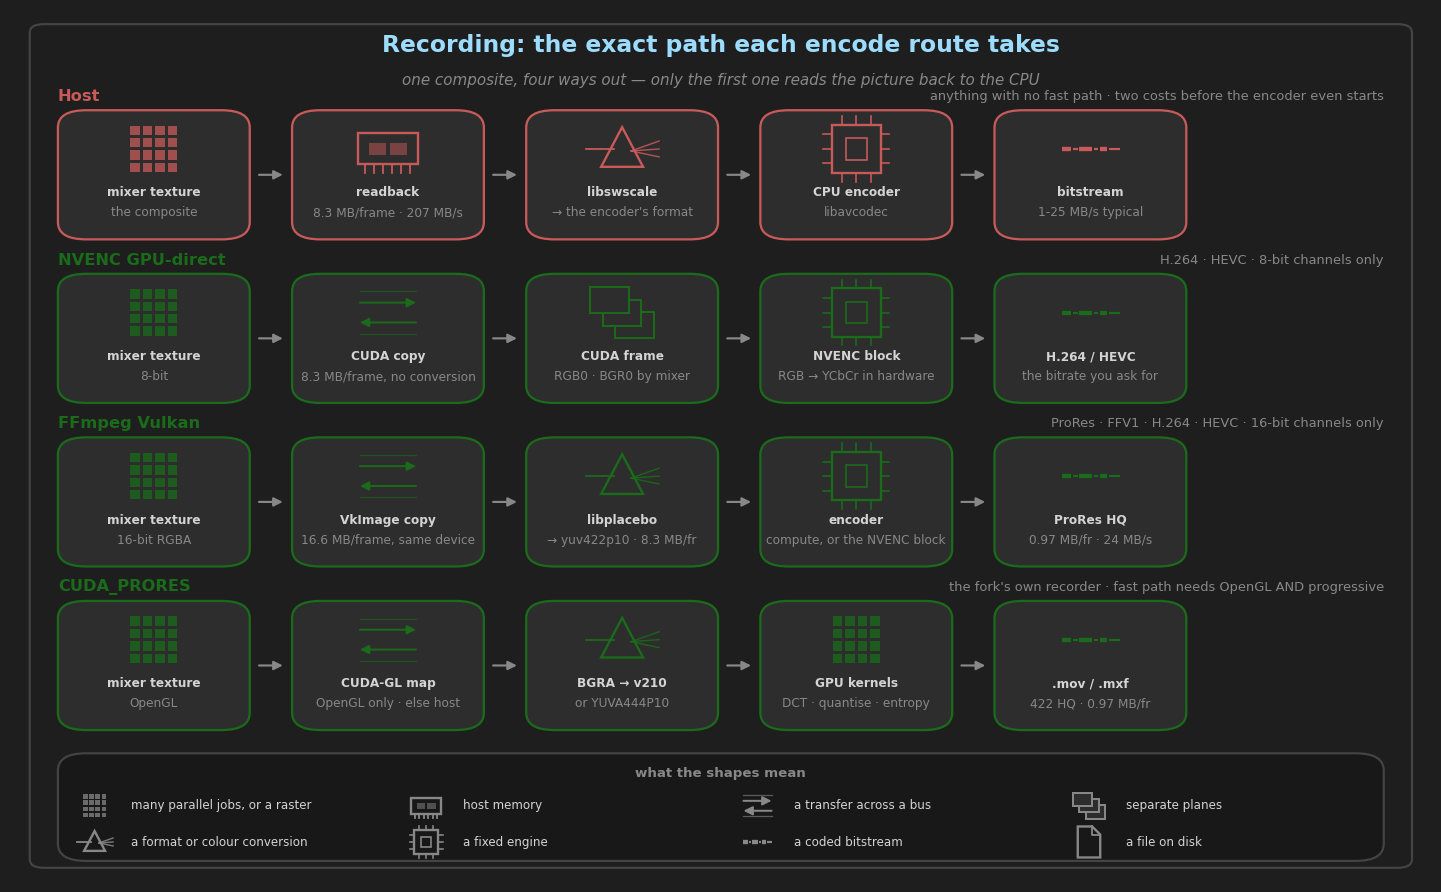
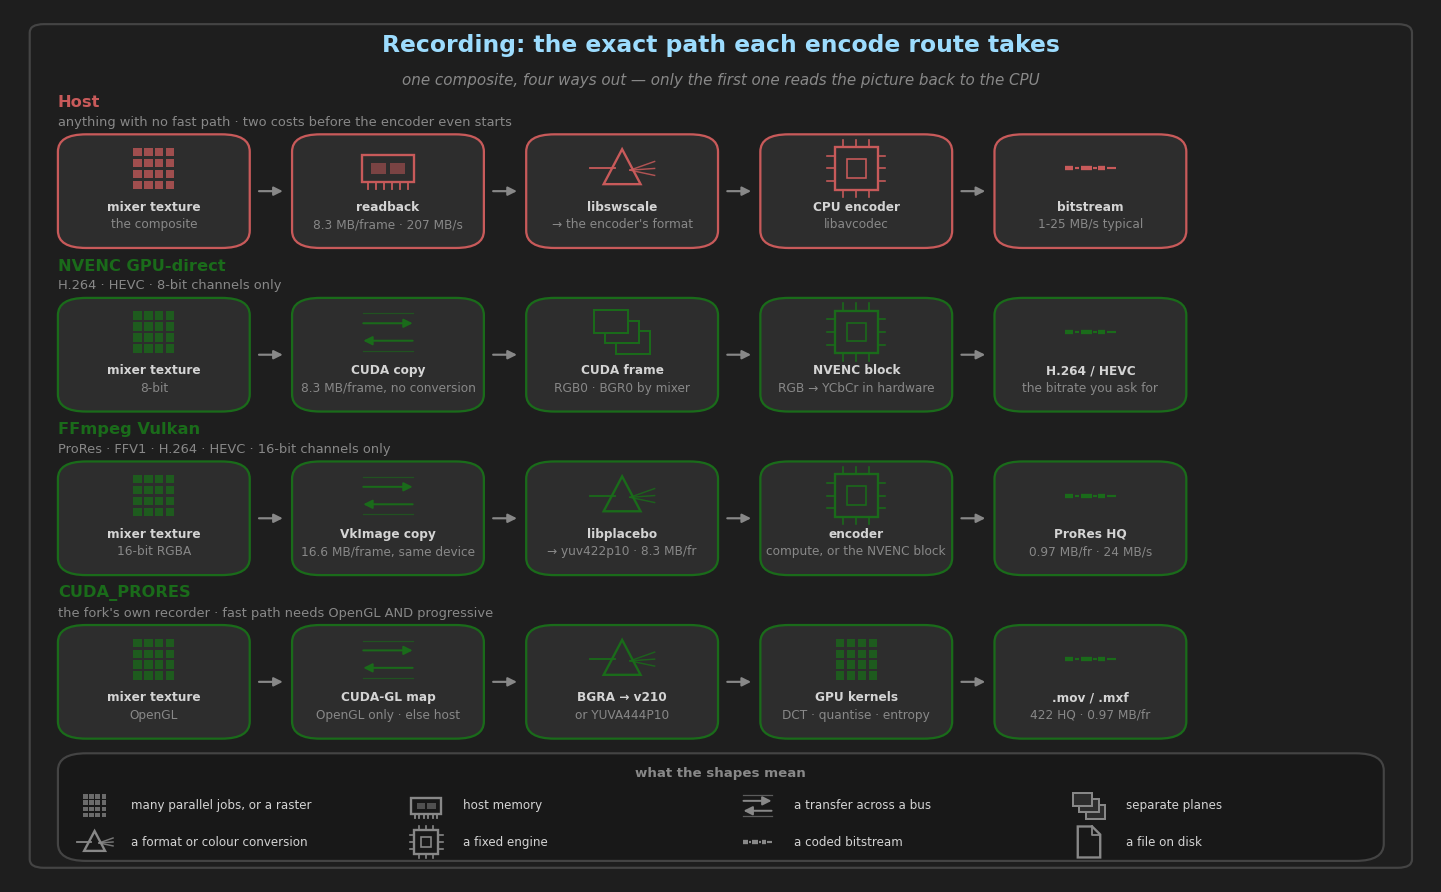
docs(recording): the Vulkan decode row was a stage short, and the notes sat in dead space
Two things you asked about in the pipeline figures.

**Why one row ended early.** The FFmpeg Vulkan *decode* row had four boxes where the others had
five, and the missing one was the import: the VkImages come out of the compute decoder already
on the mixer's own device, so there is nothing to copy. Leaving it out made the row read as
"one stage fewer" when the point is "one COPY fewer" -- so the stage is now drawn and named
("imported in place - same device, no copy"), and the grid lines up.

CUDA ProRes *does* legitimately differ at the last box, and now says why: its kernels emit RGB,
so unlike the other three there is no YCbCr convert left for the mixer shader to do. That was
already the case; the box just said "ready to composite" and left the reader to notice.

**The notes.** Each row's grey note was right-aligned at x=97 while its title sat at x=3, so
every row had a strip of empty space between the two. Both are left-aligned now, note under
title.

Two layout consequences, each found in the render rather than predicted:

* At the original y the note's descenders touched the panel's rounded top border, which reads
  as a strike-through across the line.
* Two stacked lines need more clearance than one, and at H=15 on a 19-unit pitch there were
  four units for them -- so every title after the first was drawn across the bottom border of
  the row above. The boxes give up 1.8 units of height; the icons follow automatically, since
  `_step` sizes them from the box.

diff --git a/docs/diagrams/generate_recording_diagrams.py b/docs/diagrams/generate_recording_diagrams.py
@@ -758,7 +758,7 @@ def decode_paths():
              "the same picture arrives four ways — what differs is how much of it the CPU ever sees",
              parent=None, color=MUTED, size=8.4, ha="center", style="italic")
 
-    W, H, GAP = 13.6, 15.0, 3.0
+    W, H, GAP = 13.6, 13.2, 3.0
 
     rows = [
         ("Software", DANGER_T, "every codec · the only route that always works", [
@@ -780,22 +780,24 @@ def decode_paths():
             ("grid", ("CUDA kernels", "parse · dequant · IDCT")),
             ("stack", ("BGRA16", "16.6 MB/frame, on the GPU")),
             ("bus", ("CUDA → GL or VK", "whichever mixer runs")),
-            ("grid", ("mixer texture", "ready to composite")),
+            ("grid", ("mixer texture", "already RGB · no convert")),
         ]),
         ("FFmpeg Vulkan compute", SUCCESS, "FFmpeg 8 · ProRes · ProRes RAW · FFV1 · DPX", [
             ("file", ("file", "on disk")),
             ("grid", ("compute shaders", "no decode hardware needed")),
-            ("stack", ("VkImage planes", "on the mixer's device")),
+            ("stack", ("VkImage planes", "8.3 MB/frame, 422p10")),
+            ("bus", ("imported in place", "same device · no copy")),
             ("prism", ("mixer shader", "YCbCr → RGB")),
         ]),
     ]
 
     for r, (name, col, note, steps) in enumerate(rows):
-        y = 74 - r * 19.0
-        lay.text(f"rn{r}", 3, y + H + 1.6, name, parent=None, color=col, size=9,
+        # 73, and the note 1.3 above the box: at 0.8 the note's descenders touched the panel's
+        # rounded top border, which reads as a strike-through across the line.
+        y = 73 - r * 19.0
+        lay.text(f"rn{r}", 3, y + H + 3.7, name, parent=None, color=col, size=9,
                  weight="bold")
-        lay.text(f"rd{r}", 97, y + H + 1.6, note, parent=None, color=MUTED, size=7.2,
-                 ha="right")
+        lay.text(f"rd{r}", 3, y + H + 1.4, note, parent=None, color=MUTED, size=7.2)
         for i, (icon, lines) in enumerate(steps):
             x = 3 + i * (W + GAP)
             _step(lay, ax, f"s{r}{i}", x, y, W, H, icon, lines, col=col)
@@ -826,7 +828,7 @@ def encode_paths():
              "one composite, four ways out — only the first one reads the picture back to the CPU",
              parent=None, color=MUTED, size=8.4, ha="center", style="italic")
 
-    W, H, GAP = 13.6, 15.0, 3.0
+    W, H, GAP = 13.6, 13.2, 3.0
 
     rows = [
         ("Host", DANGER_T, "anything with no fast path · two costs before the encoder even starts", [
@@ -861,11 +863,12 @@ def encode_paths():
     ]
 
     for r, (name, col, note, steps) in enumerate(rows):
-        y = 74 - r * 19.0
-        lay.text(f"rn{r}", 3, y + H + 1.6, name, parent=None, color=col, size=9,
+        # 73, and the note 1.3 above the box: at 0.8 the note's descenders touched the panel's
+        # rounded top border, which reads as a strike-through across the line.
+        y = 73 - r * 19.0
+        lay.text(f"rn{r}", 3, y + H + 3.7, name, parent=None, color=col, size=9,
                  weight="bold")
-        lay.text(f"rd{r}", 97, y + H + 1.6, note, parent=None, color=MUTED, size=7.2,
-                 ha="right")
+        lay.text(f"rd{r}", 3, y + H + 1.4, note, parent=None, color=MUTED, size=7.2)
         for i, (icon, lines) in enumerate(steps):
             x = 3 + i * (W + GAP)
             _step(lay, ax, f"s{r}{i}", x, y, W, H, icon, lines, col=col)
